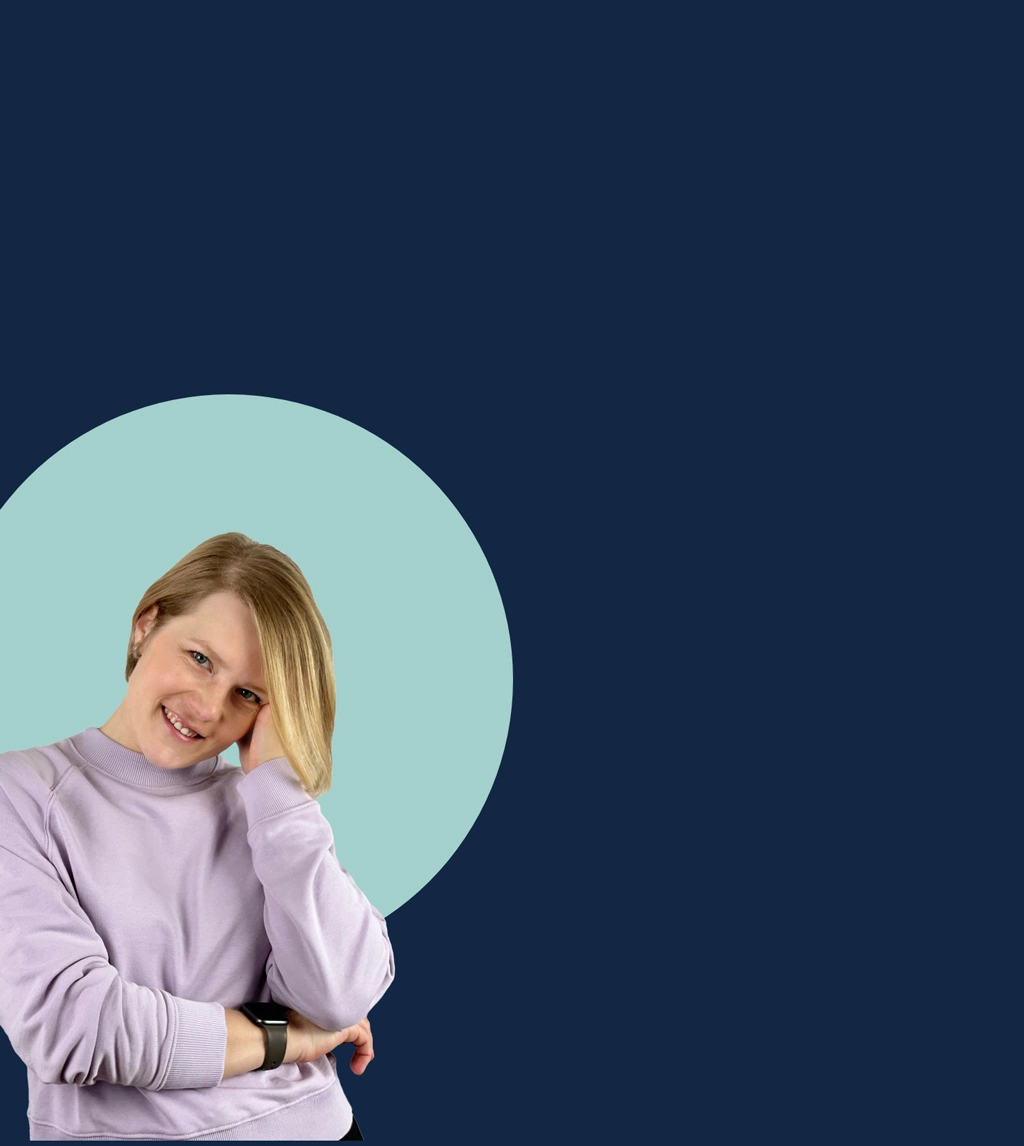
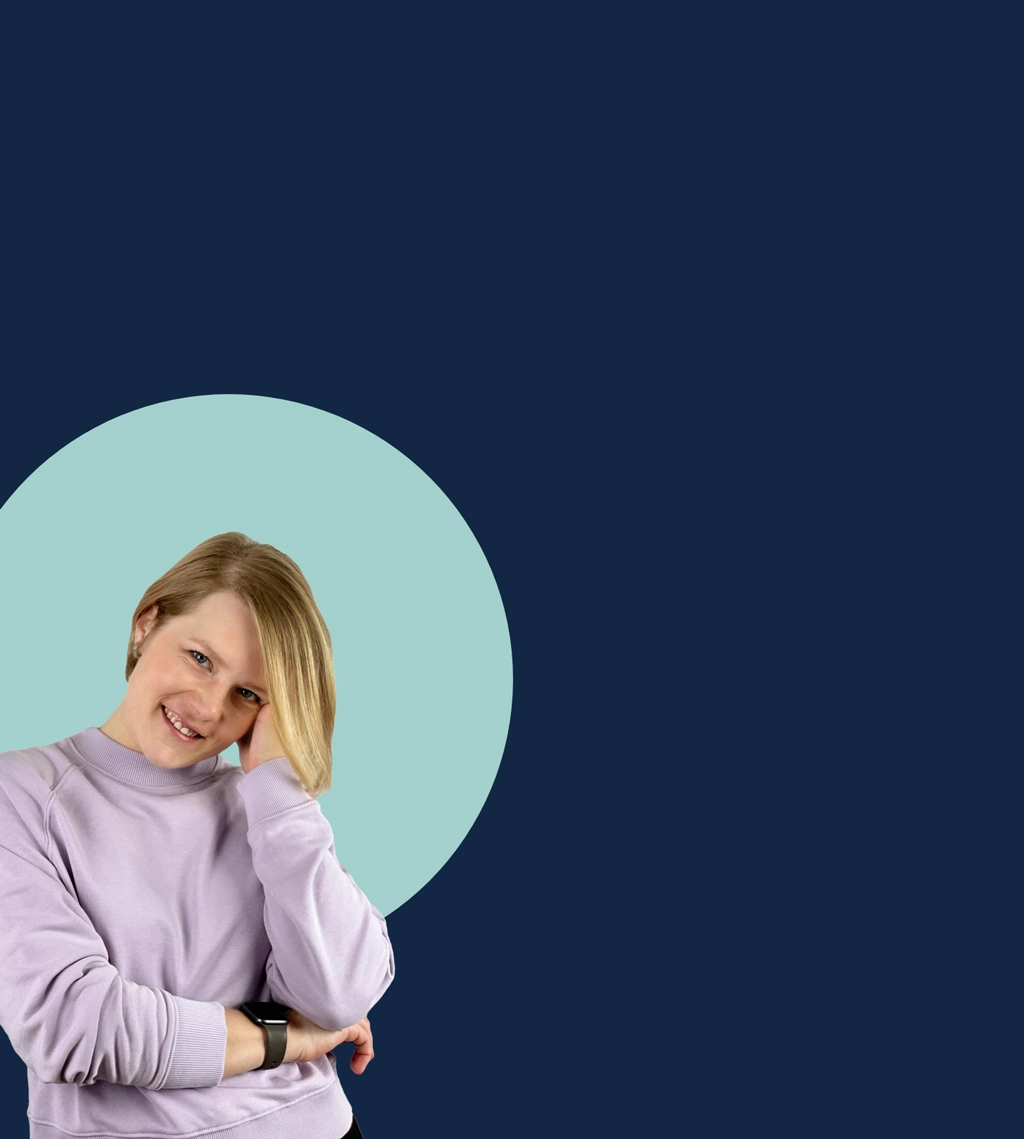
add styles for navbar mobile and tablet

diff --git a/src/Components/NavBar/style.scss b/src/Components/NavBar/style.scss
@@ -2,12 +2,12 @@
 @import 'src/_vars.scss';
 
 .NavBarContainer {
+  position: fixed;
+  background-color: $main-white;
   &-AllwaysVisibleMenuContainer {
     display: flex;
     justify-content: space-between;
     align-items: center;
-    height: 50px;
-    padding: 5px 20px;
 
     &-LogoContainer {
       display: flex;
@@ -19,16 +19,12 @@
         height: auto;
       }
     }
-    &-InvisibleItem {
-      width: 40px;
-    }
   }
 
   &-ClosedMenuContainer {
     display: flex;
     align-items: center;
     justify-content: center;
-    height: 0;
     overflow: hidden;
     transition: all ease-in-out 0.5s;
 
@@ -80,11 +76,97 @@
       }
     }
   }
-
-  &-MenuVisible {
-    height: 100px;
-    transition: height ease-in-out 0.5s;
-  }
 }
 
 /* ---------------------------  Mobile --------------------------- */
+
+@media (max-width: 767px) {
+  .NavBarContainer {
+    top: 0;
+    left: 0;
+    right: 0;
+    z-index: 1;
+    &-AllwaysVisibleMenuContainer {
+      height: 50px;
+      padding: 5px 20px;
+
+      &-SocialLinksContainer {
+        width: 40px;
+        a {
+          display: none;
+        }
+      }
+    }
+    &-ClosedMenuContainer {
+      height: 0;
+
+      &-MenuListContainer {
+        &-SocialLinksContainerMobile {
+          width: 100%;
+          display: flex;
+          justify-content: center;
+          align-items: center;
+          margin-top: 0.5em;
+          margin-bottom: 0.5em;
+          a {
+            margin-left: 0.3em;
+            img {
+              width: 25px;
+            }
+          }
+        }
+      }
+    }
+
+    &-MenuVisible {
+      height: 150px;
+      transition: height ease-in-out 0.5s;
+    }
+  }
+}
+
+/* ---------------------------  Tablet --------------------------- */
+@media (min-width: 768px) {
+  .NavBarContainer {
+    display: flex;
+    top: 0;
+    bottom: 0;
+    left: 0;
+    height: -webkit-fill-available;
+    width: 50px;
+    transition: all ease-in-out 0.5s;
+    &-AllwaysVisibleMenuContainer {
+      flex-direction: column;
+      width: 50px;
+      padding: 10px 5px;
+
+      &-SocialLinksContainer {
+        display: flex;
+        flex-direction: column;
+        a {
+          img {
+            width: 20px;
+          }
+        }
+      }
+    }
+
+    &-ClosedMenuContainer {
+      // width: 0;
+
+      &-MenuListContainer {
+        &-SocialLinksContainerMobile {
+          display: none;
+        }
+      }
+    }
+    // &-MenuVisible {
+    //   width: 200px;
+    //   transition: all ease-in-out 0.5s;
+    // }
+  }
+  .OpenNavBarContainer {
+    width: 250px;
+    transition: all ease-in-out 0.5s;
+  }
+}

diff --git a/src/Components/NavBar/NavBar.tsx b/src/Components/NavBar/NavBar.tsx
@@ -3,6 +3,9 @@ import { useTranslation } from 'react-i18next';
 import { Link } from 'react-router-dom';
 
 import Logo from '../../assets/icons/logo.svg';
+import GithubIcon from '../../assets/icons/github_icon.svg';
+import LinkedinIcon from '../../assets/icons/linkedin_icon.svg';
+
 import HamburgerMenuButton from './HamburgerMenuButton/HamburgerMenuButton';
 
 import './style.scss';
@@ -31,11 +34,16 @@ const NavBar: FunctionComponent<NavBarProps> = ({ activePage }) => {
       translationKey: 'navbar.contact'
     }
   ];
+
   const { t }: { t: any } = useTranslation();
   const [menuIsOpen, setMenuIsOpen] = useState(false);
 
   return (
-    <nav className="NavBarContainer">
+    <nav
+      className={
+        menuIsOpen ? 'NavBarContainer OpenNavBarContainer' : 'NavBarContainer'
+      }
+    >
       <div className="NavBarContainer-AllwaysVisibleMenuContainer">
         <div className="NavBarContainer-AllwaysVisibleMenuContainer-LogoContainer">
           <Link to="/">
@@ -50,7 +58,14 @@ const NavBar: FunctionComponent<NavBarProps> = ({ activePage }) => {
           menuIsOpen={menuIsOpen}
           setMenuIsOpen={setMenuIsOpen}
         />
-        <div className="NavBarContainer-AllwaysVisibleMenuContainer-InvisibleItem"></div>
+        <div className="NavBarContainer-AllwaysVisibleMenuContainer-SocialLinksContainer">
+          <a href="https://github.com/anaviktoriv">
+            <img width="20" height="20" src={GithubIcon} alt="github logo" />
+          </a>
+          <a href="https://www.linkedin.com/in/anastasiatanczak/">
+            <img src={LinkedinIcon} alt="linkedin logo" />
+          </a>
+        </div>
       </div>
       <div
         className={
@@ -81,6 +96,14 @@ const NavBar: FunctionComponent<NavBarProps> = ({ activePage }) => {
               </li>
             );
           })}
+          <div className="NavBarContainer-ClosedMenuContainer-MenuListContainer-SocialLinksContainerMobile">
+            <a href="https://github.com/anaviktoriv">
+              <img src={GithubIcon} alt="github logo" />
+            </a>
+            <a href="https://www.linkedin.com/in/anastasiatanczak/">
+              <img src={LinkedinIcon} alt="linkedin logo" />
+            </a>
+          </div>
         </ul>
       </div>
     </nav>

diff --git a/src/Pages/HomePage/styles.scss b/src/Pages/HomePage/styles.scss
@@ -6,9 +6,21 @@
   background-image: url('../../assets/img/home_background_mobile.webp');
   background-repeat: no-repeat;
   background-size: cover;
-  background-position: left 0;
 }
 
-/*    Mobile   */
+/* ---------------------------  Mobile --------------------------- */
 
-// @media (max-width: );
+@media (max-width: 767px) {
+  .HomeComponentContainer {
+    background-image: url('../../assets/img/home_background_mobile.webp');
+    background-position: left 0;
+  }
+}
+
+/* ---------------------------  Tablet --------------------------- */
+@media (min-width: 768px) {
+  .HomeComponentContainer {
+    background-image: url('../../assets/img/home_background_tablet.webp');
+    background-position: left 0;
+  }
+}

diff --git a/src/Components/NavBar/HamburgerMenuButton/HamburgerMenuButton.tsx b/src/Components/NavBar/HamburgerMenuButton/HamburgerMenuButton.tsx
@@ -12,7 +12,6 @@ const HamburgerMenuButton: FunctionComponent<HamburgerMenuButtonProps> = ({
 }) => {
   const handleMenuButtonClick = () => {
     setMenuIsOpen(!menuIsOpen);
-    console.log(menuIsOpen);
   };
 
   return (
@@ -20,7 +19,7 @@ const HamburgerMenuButton: FunctionComponent<HamburgerMenuButtonProps> = ({
       className="HamburgerButtonContainer"
       onClick={handleMenuButtonClick}
     >
-      <svg viewBox="0 0 100 100">
+      <svg height="50" width="50" viewBox="0 0 100 100">
         <path
           className={
             menuIsOpen

diff --git a/src/Components/NavBar/HamburgerMenuButton/style.scss b/src/Components/NavBar/HamburgerMenuButton/style.scss
@@ -6,8 +6,8 @@
   cursor: pointer;
   display: flex;
   padding: 0;
-  width: 50px;
-  height: 50px;
+  // width: 50px;
+  // height: 50px;
   -webkit-appearance: none;
 
   &:active,

diff --git a/src/_vars.scss b/src/_vars.scss
@@ -1,3 +1,3 @@
 $language-select-font: normal normal bold 12px Comfortaa;
 
-$menu-font: normal normal bold 14px Comfortaa;
+$menu-font: normal normal bold 16px Comfortaa;

diff --git a/src/Components/LanguageSelect/styles.scss b/src/Components/LanguageSelect/styles.scss
@@ -2,6 +2,7 @@
 @import 'src/_vars.scss';
 
 .LangugageSelectContainer {
+  z-index: 2;
   position: fixed;
   top: -162px;
   right: -110px;
